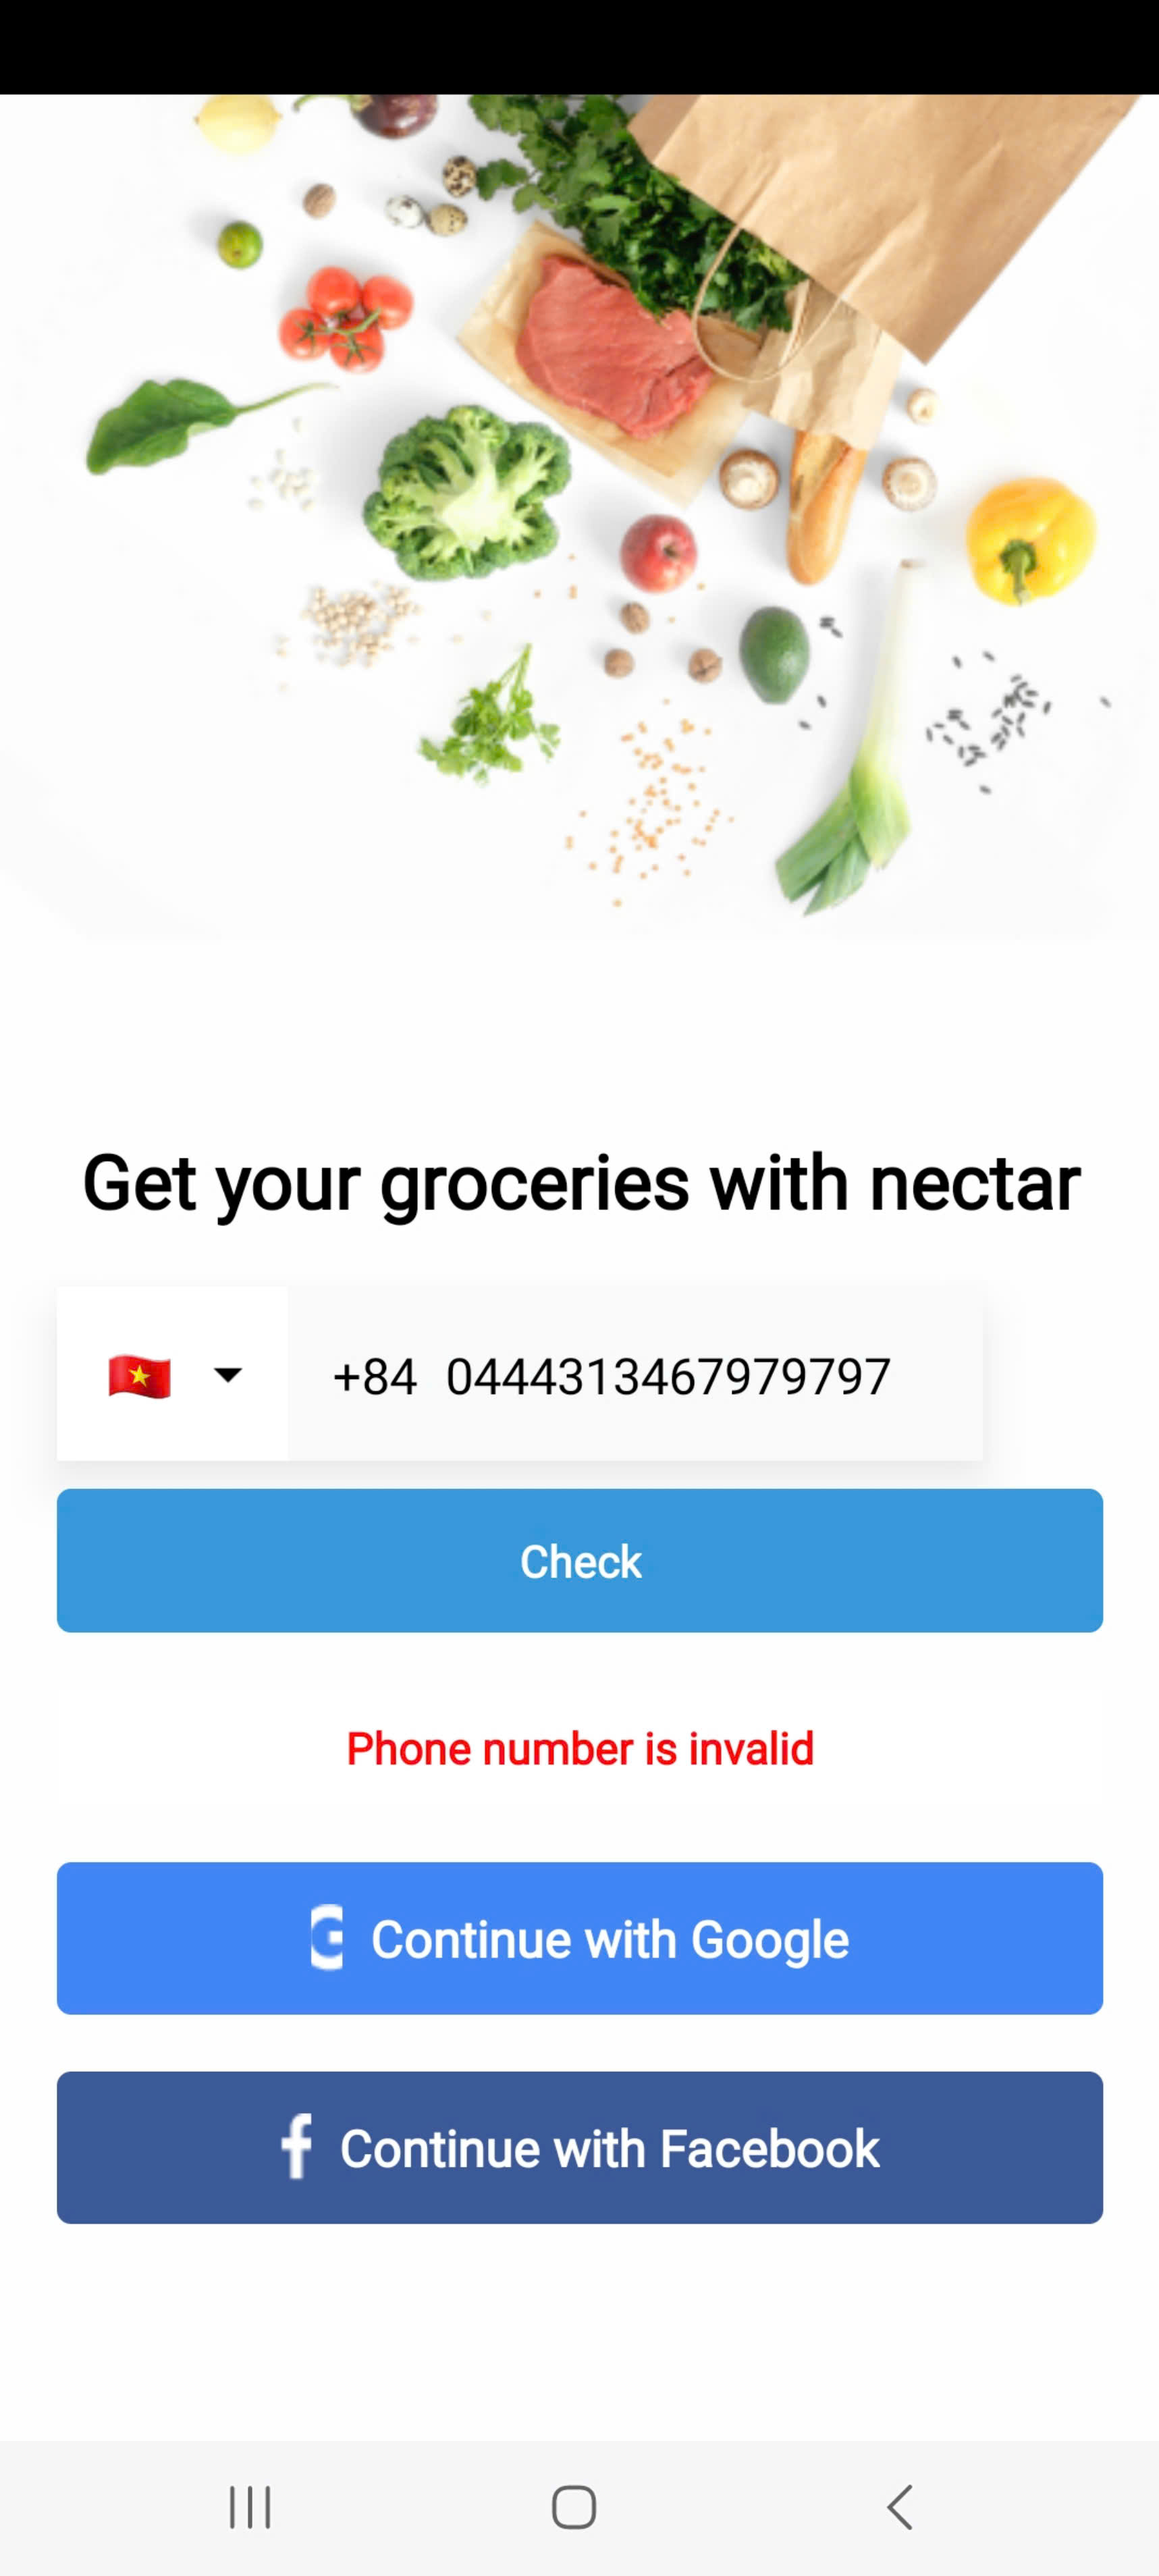
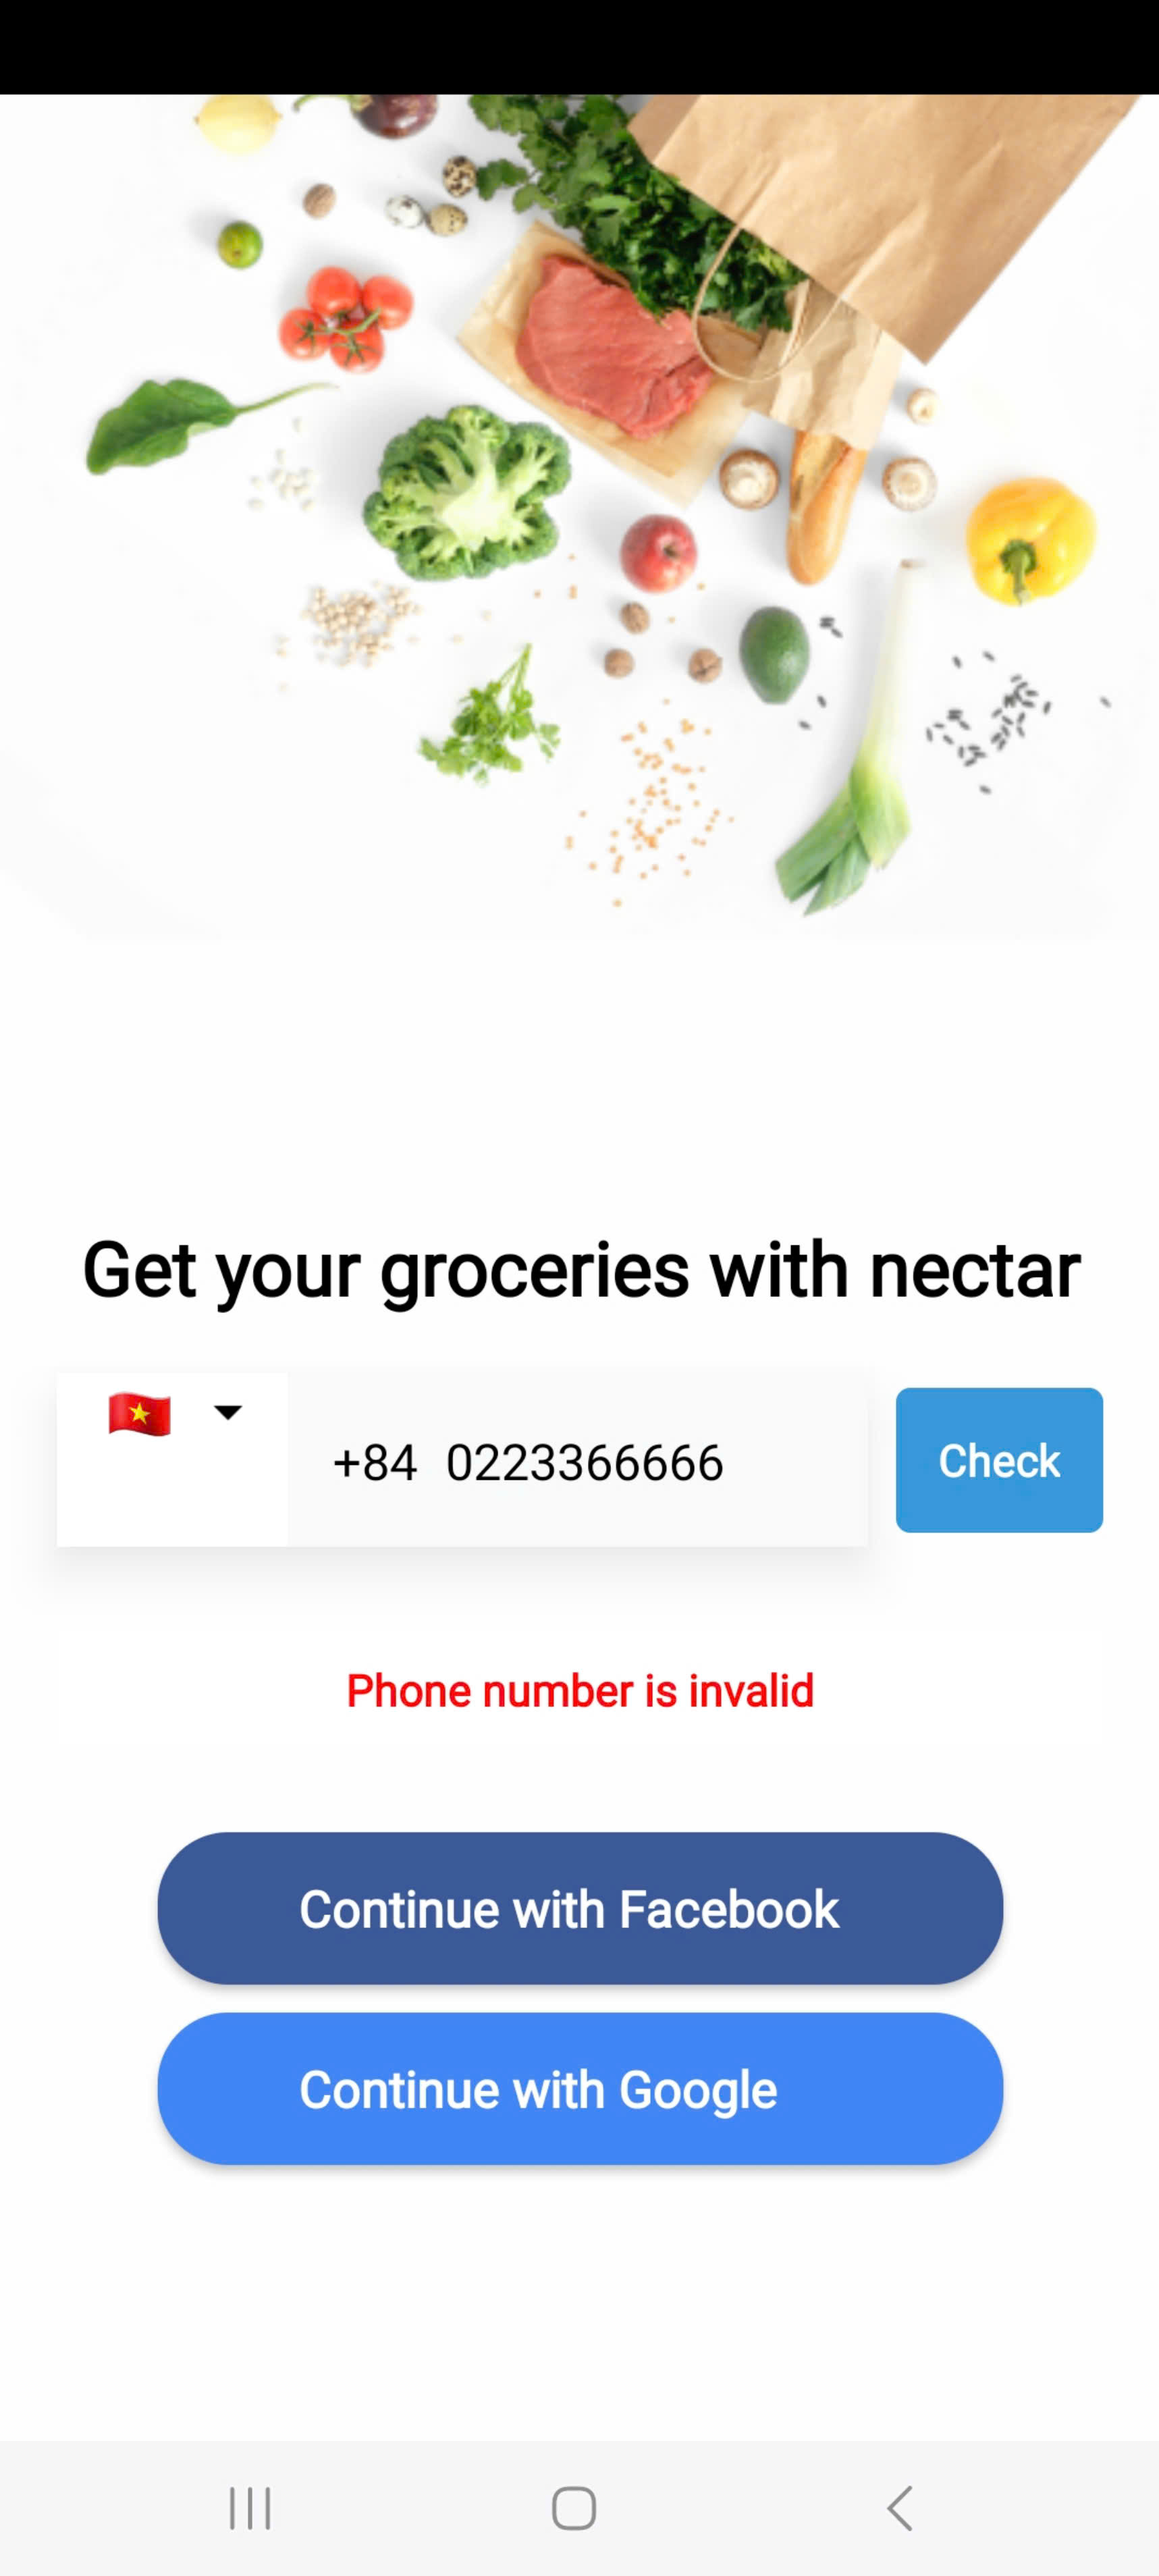
noi dung

Changed region(s): [[0.0309, 0.4366, 0.9569, 0.8732]]

diff --git a/SignInScreen.js b/SignInScreen.js
@@ -24,38 +24,39 @@ const SignInScreen = () => {
       <View style={styles.container}>
         {/* Phần hình ảnh trên */}
         <Image
-          source={require("./food.png")} // Thay đổi thành đường dẫn tới hình ảnh của bạn
+          source={require("./food.png")} // Đảm bảo đường dẫn đúng đến hình ảnh
           style={styles.image}
         />
         <SafeAreaView style={styles.wrapper}>
           {/* Tiêu đề */}
           <Text style={styles.title}>Get your groceries with nectar</Text>
 
-          {/* Thành phần nhập số điện thoại */}
-          <PhoneInput
-            ref={phoneInput}
-            defaultValue={value}
-            defaultCode="BD" // Quốc gia Bangladesh
-            layout="first"
-            onChangeText={(text) => setValue(text)}
-            onChangeFormattedText={(text) => setFormattedValue(text)}
-            withShadow
-            autoFocus
-          />
-
-          {/* Nút 'Check' để kiểm tra hợp lệ */}
-          <TouchableOpacity
-            style={styles.button}
-            onPress={() => {
-              if (phoneInput.current) {
-                const isValid = phoneInput.current.isValidNumber(value);
-                setValid(isValid);
-                setShowMessage(true);
-              }
-            }}
-          >
-            <Text style={styles.buttonText}>Check</Text>
-          </TouchableOpacity>
+          {/* Thành phần nhập số điện thoại với nút 'Check' */}
+          <View style={styles.inputContainer}>
+            <PhoneInput
+              ref={phoneInput}
+              defaultValue={value}
+              defaultCode="BD" // Quốc gia Bangladesh
+              layout="first"
+              onChangeText={(text) => setValue(text)}
+              onChangeFormattedText={(text) => setFormattedValue(text)}
+              withShadow
+              autoFocus
+              containerStyle={styles.phoneInput} // Căng rộng phone input
+            />
+            <TouchableOpacity
+              style={styles.checkButton}
+              onPress={() => {
+                if (phoneInput.current) {
+                  const isValid = phoneInput.current.isValidNumber(value);
+                  setValid(isValid);
+                  setShowMessage(true);
+                }
+              }}
+            >
+              <Text style={styles.buttonText}>Check</Text>
+            </TouchableOpacity>
+          </View>
 
           {/* Hiển thị trạng thái hợp lệ */}
           {showMessage && (
@@ -66,27 +67,23 @@ const SignInScreen = () => {
             </View>
           )}
 
-          {/* Nút tiếp tục với Google */}
-          <TouchableOpacity style={styles.socialButtonGoogle}>
-            <View style={styles.socialButtonContent}>
-              <Image
-                source={require("./google.png")} // Thay đổi thành đường dẫn tới logo Google của bạn
-                style={styles.socialIcon}
-              />
-              <Text style={styles.socialButtonText}>Continue with Google</Text>
-            </View>
-          </TouchableOpacity>
+          {/* 3 Nút xã hội với khoảng cách đều và bo góc */}
+          <View style={styles.socialButtonContainer}>
+            {/* Facebook button */}
+            <TouchableOpacity style={styles.socialButtonFacebook}>
+              <View style={styles.socialButtonContent}>
+                <Text style={styles.socialButtonText}>Continue with Facebook</Text>
+              </View>
+            </TouchableOpacity>
 
-          {/* Nút tiếp tục với Facebook */}
-          <TouchableOpacity style={styles.socialButtonFacebook}>
-            <View style={styles.socialButtonContent}>
-              <Image
-                source={require("./facebook.png")} // Thay đổi thành đường dẫn tới logo Facebook của bạn
-                style={styles.socialIcon}
-              />
-              <Text style={styles.socialButtonText}>Continue with Facebook</Text>
-            </View>
-          </TouchableOpacity>
+            {/* Google button */}
+            <TouchableOpacity style={styles.socialButtonGoogle}>
+              <View style={styles.socialButtonContent}>
+                <Text style={styles.socialButtonText}>Continue with Google</Text>
+              </View>
+            </TouchableOpacity>
+
+          </View>
         </SafeAreaView>
       </View>
     </>
@@ -108,19 +105,28 @@ const styles = StyleSheet.create({
     flex: 1,
     justifyContent: "center",
     paddingHorizontal: 20,
+
   },
   title: {
     fontSize: 24,
     fontWeight: "bold",
     textAlign: "center",
+    marginBottom: 50,
+  },
+  inputContainer: {
+    flexDirection: "row",
+    alignItems: "center",
     marginBottom: 20,
   },
-  button: {
+  phoneInput: {
+    flex: 1, // Đảm bảo phone input kéo dài hết chiều rộng
+  },
+  checkButton: {
     backgroundColor: "#3498db",
     padding: 15,
     borderRadius: 5,
     alignItems: "center",
-    marginVertical: 10,
+    marginLeft: 10, // Khoảng cách giữa input và button
   },
   buttonText: {
     color: "#fff",
@@ -141,34 +147,36 @@ const styles = StyleSheet.create({
     fontWeight: "bold",
     textAlign: "center",
   },
+  socialButtonContainer: {
+    flexDirection: "column", // Đưa nút lên xuống theo chiều dọc
+    justifyContent: "center", // Căn giữa
+    alignItems: "center", // Căn giữa
+    marginTop: 20,
+  },
   socialButtonGoogle: {
     backgroundColor: "#4285F4",
-    padding: 15,
-    borderRadius: 5,
-    alignItems: "center",
-    marginVertical: 10,
+    paddingVertical: 15,
+    paddingHorizontal: 50,
+    borderRadius: 25,
+    elevation: 2,
+    marginTop: 10, // Tạo khoảng cách giữa nút Facebook và Google
   },
   socialButtonFacebook: {
     backgroundColor: "#3b5998",
-    padding: 15,
-    borderRadius: 5,
-    alignItems: "center",
-    marginVertical: 10,
+    paddingVertical: 15,
+    paddingHorizontal: 50,
+    borderRadius: 25,
+    elevation: 2,
   },
   socialButtonContent: {
     flexDirection: "row",
     alignItems: "center",
-    
-  },
-  socialIcon: {
-    width: 11,
-    height: 24,
-    marginRight: 10,
   },
   socialButtonText: {
     color: "#fff",
     fontWeight: "bold",
     fontSize: 16,
+    width:200
   },
 });
 

diff --git a/OnboardingScreen.js b/OnboardingScreen.js
@@ -83,6 +83,7 @@ const styles = StyleSheet.create({
     paddingHorizontal: 50,
     borderRadius: 25,
     elevation: 2,
+    width:200
   },
   buttonText: {
     fontSize: 16,

diff --git a/README.md b/README.md
@@ -1,5 +1,6 @@
 # Ho ten: Nguyen Phuong Thao
 # MSV: BIT220144
+# Lop: 22IT3
 ![alt](start.jpg)
 ![alt](signin1.jpg)
 ![alt](signin2.jpg)
